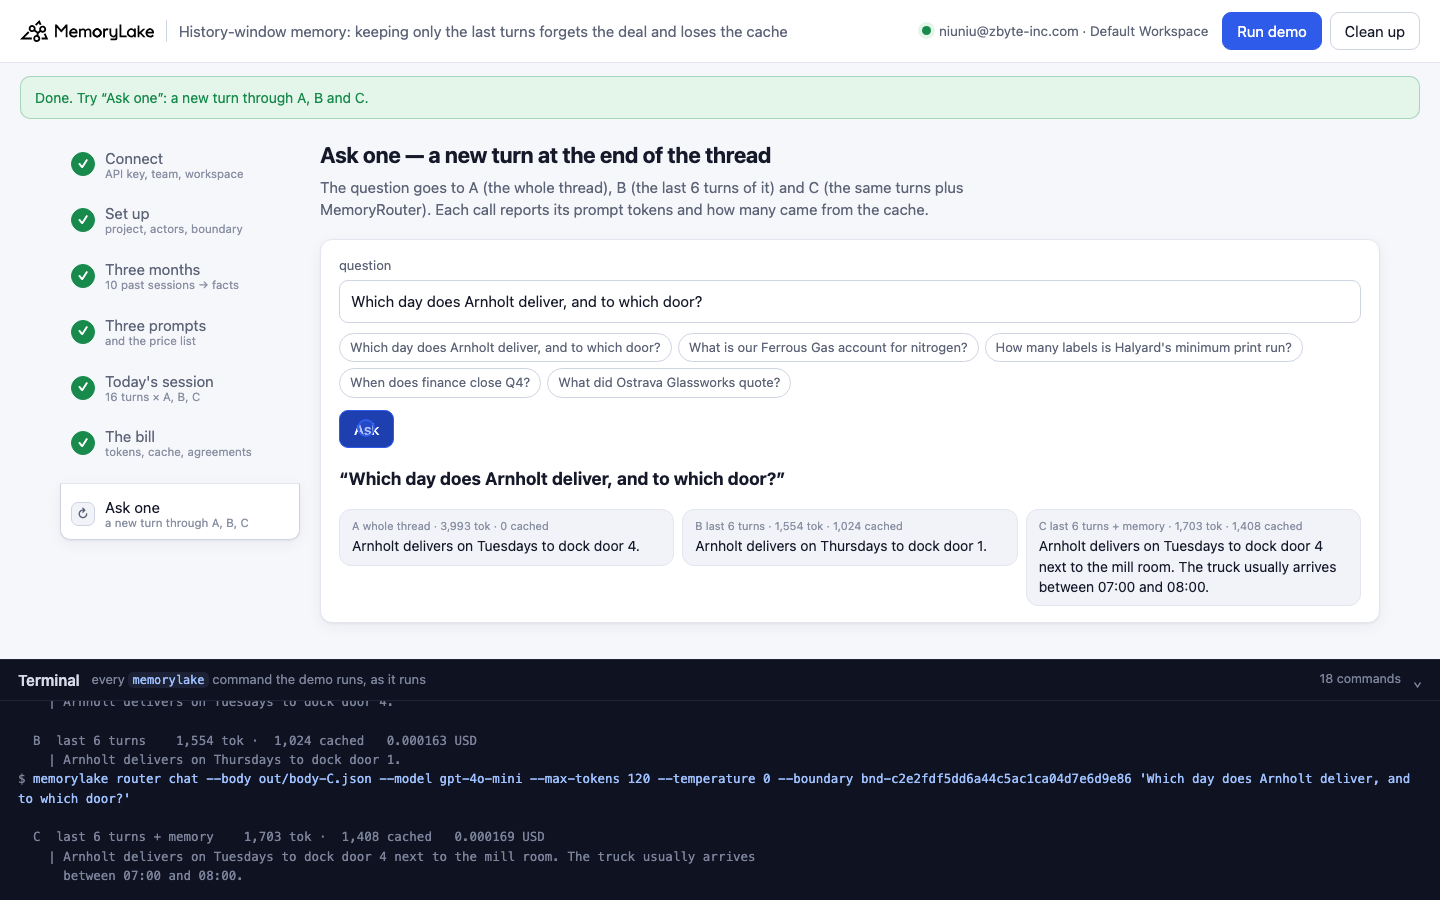
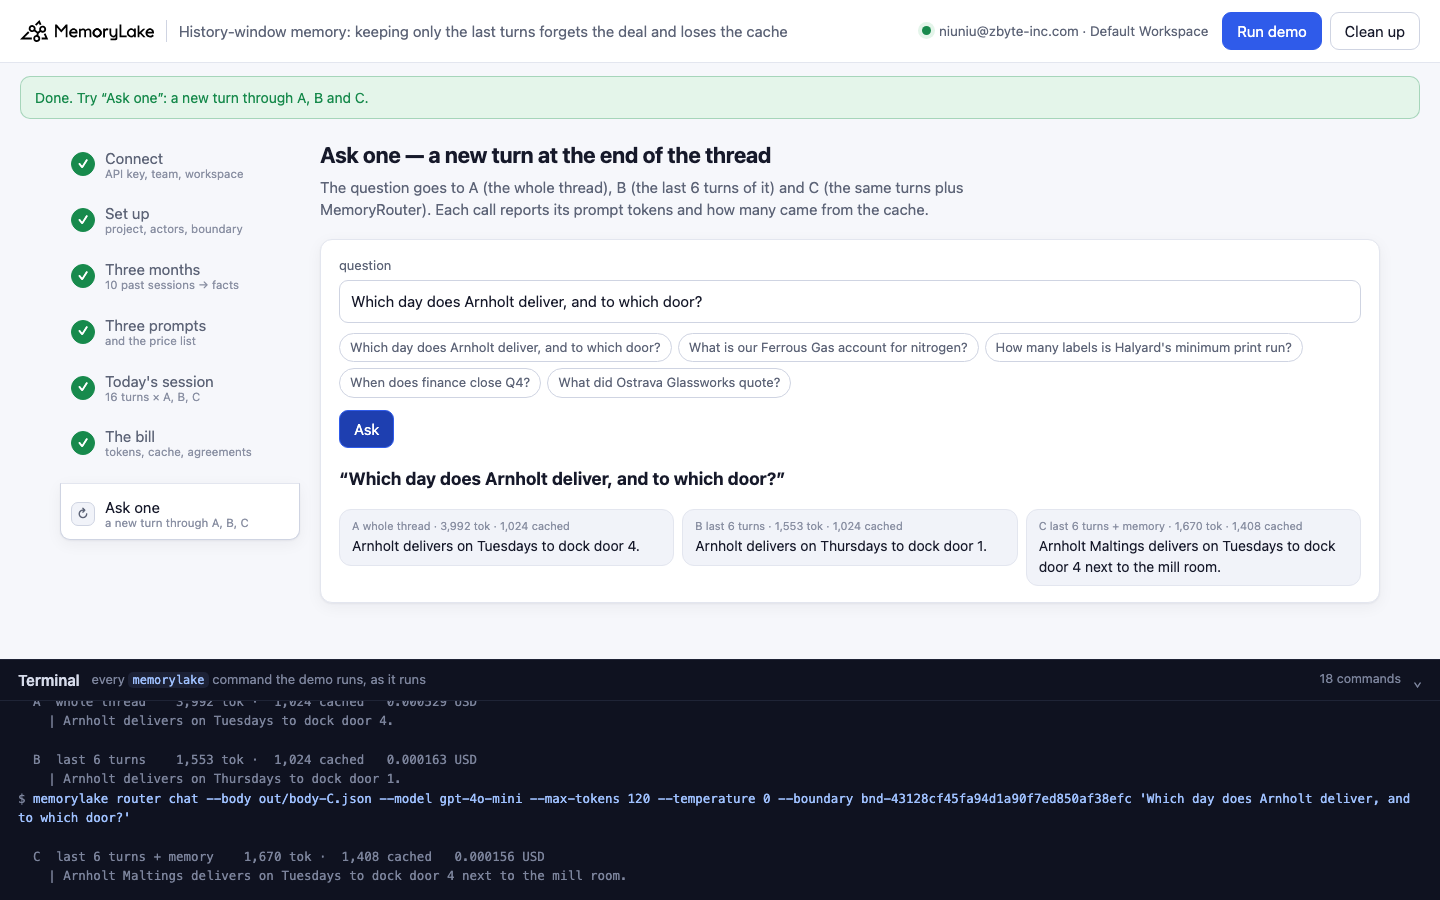
history-window-memory: video links; measured over all 5 runs

diff --git a/README.md b/README.md
@@ -146,7 +146,7 @@ that memory can hold once it is more than coding sessions.
 | [recurring-failure-memory](recurring-failure-memory/) | Engineering (agents recovering from tool failures) | A nightly billing agent hits the same HTTP 429 on `export_invoices` four times in six nights. Sent as run logs, MemoryLake's extractor keeps the lesson (what the failure is, which recovery worked) but merges the repeats: four failures leave one to five facts and two to six `fact trace` entries, and a repeat that teaches nothing new changes nothing. The pre-call rule "3+ of the same failure in 7 days → open a systematic fix" counted short in 10 of 12 runs and never fired in 6. One typed record per failure (`fact add` + `fact update --metadata`, read back with `fact list --query` + metadata filter) counts 4 every run and fires on the third. CLI runner plus a local web UI | ~4 min | [CLI 5:00](https://github.com/memorylake-ai/memorylake-usecases/releases/download/recurring-failure-memory-v1/recurring-failure-memory-cli-demo.mp4) · [Web 5:21](https://github.com/memorylake-ai/memorylake-usecases/releases/download/recurring-failure-memory-v1/recurring-failure-memory-web-demo.mp4) |
 | [ruled-out-memory](ruled-out-memory/) | Engineering (ReAct agent loops) | An investigation agent's ReAct loop rules out four suspects for a checkout latency incident, finds a lead, and runs out of steps; the next run asks memory what was already established. Stored as a text scratchpad, extraction kept the lead in all 8 runs and the four rule-outs 0 of 32 times; the resumed plan re-checked dead ends 26 times in 96 picks. One `fact add` record per iteration: 0 re-checks, but asked about suspects nobody checked, the model said "already ruled out" 29 of 47 times; one coverage record ("nothing else is ruled out") brought that to 0 of 48. | ~4 min | [CLI 5:59](https://github.com/memorylake-ai/memorylake-usecases/releases/download/ruled-out-memory-v1/ruled-out-memory-cli-demo.mp4) · [Web 6:14](https://github.com/memorylake-ai/memorylake-usecases/releases/download/ruled-out-memory-v1/ruled-out-memory-web-demo.mp4) |
 | [prompt-cache-memory](prompt-cache-memory/) | Engineering (agent cost at scale) | A support assistant sends the same 1,300-token playbook with every request plus what it remembers about the customer. Retrieved memory placed in front of the playbook (B) and after it (C): exactly the same tokens on 72 of 72 questions and the same accuracy, but C was read from the provider's prompt cache 70 of 72 times, and B only on repeats of a request sent minutes earlier (0 of 58 otherwise). Priced from `router models`: B 202, C 134, MemoryRouter `--boundary` 130 USD per million calls. | ~3 min | [CLI 4:35](https://github.com/memorylake-ai/memorylake-usecases/releases/download/prompt-cache-memory-v1/prompt-cache-memory-cli-demo.mp4) · [Web 5:00](https://github.com/memorylake-ai/memorylake-usecases/releases/download/prompt-cache-memory-v1/prompt-cache-memory-web-demo.mp4) |
-| [history-window-memory](history-window-memory/) | Engineering (token bloat from stuffed history) | A purchasing assistant's thread holds ten past sessions of supplier agreements; today's 16-turn session runs three ways. The whole thread in every request (A) is right 20 of 21 times and about 90% of it comes from the provider's prompt cache. Keeping only the last 6 turns (B), the usual fix, is right 0 of 21 times (14 "not on file", 7 made-up values such as a lot number and a CO2 account), and its cached tokens stay at the 1,024-token playbook on 27 of 30 turns because the window changes every request. The same window plus MemoryRouter `--boundary` over the extracted sessions (C) is right 21 of 21; per session A costs 1.5× C. | ~5 min | recording |
+| [history-window-memory](history-window-memory/) | Engineering (token bloat from stuffed history) | A purchasing assistant's thread holds ten past sessions of supplier agreements; today's 16-turn session runs three ways. The whole thread in every request (A) is right 34 of 35 times and about 92% of it comes from the provider's prompt cache. Keeping only the last 6 turns (B), the usual fix, is right 0 of 35 times (24 "not on file", 11 made-up values such as a lot number and a CO2 account), and its cached tokens stay at the 1,024-token playbook on 47 of 50 turns because the window changes every request. The same window plus MemoryRouter `--boundary` over the extracted sessions (C) is right 35 of 35; per session A costs 1.5× C. | ~5 min | [CLI 7:58](https://github.com/memorylake-ai/memorylake-usecases/releases/download/history-window-memory-v1/history-window-memory-cli-demo.mp4) · [Web 8:27](https://github.com/memorylake-ai/memorylake-usecases/releases/download/history-window-memory-v1/history-window-memory-web-demo.mp4) |
 
 The videos are real, unedited recordings; every asset lives on the [releases page](https://github.com/memorylake-ai/memorylake-usecases/releases).
 

diff --git a/history-window-memory/README.md b/history-window-memory/README.md
@@ -4,7 +4,8 @@ A runnable version of the MemoryLake use case
 [*Stop Bloating Token Costs by Stuffing Agent History Into Every Prompt*](https://www.memorylake.ai/en/usecase/stop-token-bloat-from-stuffed-agent-history),
 built entirely on the [`memorylake` CLI](https://github.com/memorylake-ai/memorylake-cli) (v20261015 or later).
 
-**Watch it run:** videos are being recorded; links follow.
+**Watch it run:** [CLI, 7:58](https://github.com/memorylake-ai/memorylake-usecases/releases/download/history-window-memory-v1/history-window-memory-cli-demo.mp4) · [Web, 8:27](https://github.com/memorylake-ai/memorylake-usecases/releases/download/history-window-memory-v1/history-window-memory-web-demo.mp4)
+([release](https://github.com/memorylake-ai/memorylake-usecases/releases/tag/history-window-memory-v1); GitHub serves them as downloads). Both are real, unedited runs from a clean account and are counted in the Measured table below.
 
 **The problem.** An agent that re-sends its whole conversation history in every request gets more expensive with
 every turn. The usual fix is a sliding window: keep the system prompt and the last few turns, drop the rest. That
@@ -37,10 +38,11 @@ earlier. The same session runs three ways:
 - **C — the same 6 turns, plus MemoryRouter** (`router chat --boundary`) attaching what MemoryLake extracted from the
   ten past sessions.
 
-Over the runs counted below, B got **0 of the 21** earlier agreements right (14 times "not on file", 7 times a made-up
-value such as lot `C-2023-07` at 3.50 USD/lb or CO2 account `12345`). C got 21 of 21, A 20 of 21. After the window
-slid, B's cache read was exactly the 1,024-token playbook on 27 of 30 turns (0 on the other three). About 90% of A's
-prompt tokens were read from the cache, and A still cost 1.5–1.6× C per session.
+Over the 5 runs counted below, B got **0 of the 35** earlier agreements right (24 times "not on file", 11 times a made-up
+value such as lot `C-2023-07` at 3.50 USD/lb or CO2 account `12345`). C got 35 of 35, A 34 of 35. After the window
+slid, B's cache read was exactly the 1,024-token playbook on 47 of 50 turns (0 on the other three). About 92% of A's
+prompt tokens were read from the cache, and A still cost 1.5× C per session (6,345 vs 4,240 USD per million sessions;
+B 3,350).
 
 ## What it shows
 
@@ -52,7 +54,7 @@ prompt tokens were read from the cache, and A still cost 1.5–1.6× C per sessi
   doesn't have a value. B mostly does. But in every run it also answered some questions with values it made up: a lot
   number, a 5% credit instead of 6%, a 250 USD emergency fee instead of 180.
 - **Memory instead of history.** In C, each past session is a MemoryLake conversation (`conv create`, `conv msg
-  append`). Extraction turns the 104 messages into about 70–80 facts, and the demo checks that every value today's
+  append`). Extraction turns the 104 messages into 68–78 facts (it varies from run to run), and the demo checks that every value today's
   session needs is among them before any answer. MemoryRouter attaches the relevant facts to each request (about 300
   tokens more than B). Because they come after the system prompt, the playbook stays cacheable.
 - **Caching narrows the gap, but stuffing still costs more.** A sent 2.2× C's prompt tokens and paid 1.5× C's price,
@@ -203,9 +205,11 @@ after the window slid (turns 7–16) whose `cached_tokens` was exactly the 1,024
 | first run (`--reset`) | built, 78 facts | 7/0/0 | 0/4/3 | 7/0/0 | 87% · 55% · 53% | 9/10 | 6,643 · 3,500 · 4,281 |
 | second run | reused | 6/0/1 | 0/6/1 | 7/0/0 | 93% · 60% · 54% | 10/10 | 6,267 · 3,208 · 4,214 |
 | browser check | built, 70 facts | 7/0/0 | 0/4/3 | 7/0/0 | 93% · 52% · 54% | 8/10 | 6,214 · 3,471 · 4,170 |
-| **total (3 runs)** | 7/7 values every time | **20/0/1** | **0/14/7** | **21/0/0** | | **27/30** | |
+| CLI recording | built, 76 facts | 7/0/0 | 0/4/3 | 7/0/0 | 92% · 59% · 50% | 10/10 | 6,383 · 3,303 · 4,170 |
+| Web recording | built, 68 facts | 7/0/0 | 0/6/1 | 7/0/0 | 93% · 60% · 52% | 10/10 | 6,218 · 3,270 · 4,364 |
+| **total (5 runs)** | 7/7 values every time | **34/0/1** | **0/24/11** | **35/0/0** | | **47/50** | **6,345 · 3,350 · 4,240** (mean) |
 
-On the B turns that were not on the floor, `cached_tokens` was 0: the provider did not read even the playbook from
+On the B turns that were not on the floor, `cached_tokens` was 0 (C had one such turn too): the provider did not read even the playbook from
 its cache that time. A's one ✗ was the approval question: the 5,000 USD rule was in its prompt, and it said 7,400 USD
 was below it.
 
